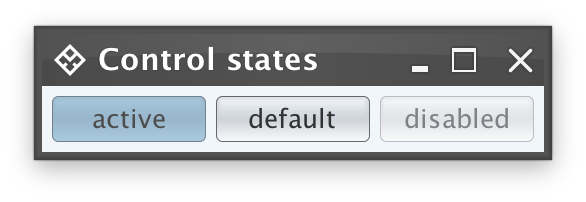
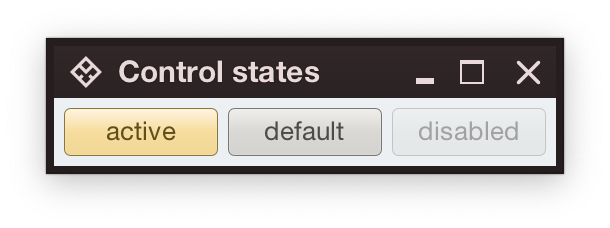
Updated color scheme bundle documentation
For #400

diff --git a/demos/theming-demo/src/main/java/org/pushingpixels/radiance/demo/theming/main/ControlStates.java b/demos/theming-demo/src/main/java/org/pushingpixels/radiance/demo/theming/main/ControlStates.java
@@ -31,7 +31,7 @@ package org.pushingpixels.radiance.demo.theming.main;
 
 import org.pushingpixels.radiance.theming.api.RadianceThemingCortex;
 import org.pushingpixels.radiance.theming.api.RadianceThemingSlices;
-import org.pushingpixels.radiance.theming.api.skin.BusinessBlackSteelSkin;
+import org.pushingpixels.radiance.theming.api.skin.MarinerSkin;
 
 import javax.swing.*;
 import java.awt.*;
@@ -62,7 +62,7 @@ public class ControlStates extends JFrame {
         SwingUtilities.invokeLater(() -> {
             JFrame.setDefaultLookAndFeelDecorated(true);
             RadianceThemingCortex.GlobalScope.setFocusKind(RadianceThemingSlices.FocusKind.NONE);
-            RadianceThemingCortex.GlobalScope.setSkin(new BusinessBlackSteelSkin());
+            RadianceThemingCortex.GlobalScope.setSkin(new MarinerSkin());
             new ControlStates().setVisible(true);
         });
     }

diff --git a/theming/src/main/java/org/pushingpixels/radiance/theming/api/RadianceColorSchemeBundle.java b/theming/src/main/java/org/pushingpixels/radiance/theming/api/RadianceColorSchemeBundle.java
@@ -70,6 +70,18 @@ public class RadianceColorSchemeBundle {
 
     private Map<RadianceThemingSlices.ContainerColorTokensAssociationKind, ContainerColorTokens> colorTokensForEnabledState;
 
+    /**
+     * Creates a new color scheme bundle.
+     *
+     * @param activeContainerTokens
+     *            The active color tokens of this bundle.
+     * @param mutedContainerTokens
+     *            The muted color tokens of this bundle.
+     * @param neutralContainerTokens
+     *            The neutral color tokens of this bundle.
+     * @param isSystemDark
+     *            <code>true</code> if the system tokens should be created in dark mode.
+     */
     public RadianceColorSchemeBundle(ContainerColorTokens activeContainerTokens,
         ContainerColorTokens mutedContainerTokens, ContainerColorTokens neutralContainerTokens,
         boolean isSystemDark) {

diff --git a/docs/theming/skins/colorschemebundles.md b/docs/theming/skins/colorschemebundles.md
@@ -4,57 +4,60 @@ A **color scheme bundle** is a set of information that allows painting controls 
 
 ### Basics
 
-The `ComponentState` is the base class for core and custom [component states](componentstates.md). A color scheme bundle is created with three major color schemes - for active, enabled and disabled controls. If no state-specific color schemes are registered on the color scheme bundle, the major color schemes are used for all component states. A color scheme bundle is created with the following constructor:
+The `ComponentState` is the base class for core and custom [component states](componentstates.md). A color scheme bundle is created with three major color tokens - for active, muted and neutral containers. If no state-specific color tokens are registered on the color scheme bundle, the major color tokens are used for all component states. A color scheme bundle is created with the following constructor:
 
 ```java
-  /**
-   * Creates a new color scheme bundle.
-   *
-   * @param activeColorScheme
-   *            The active color scheme of this bundle.
-   * @param enabledColorScheme
-   *            The enabled color scheme of this bundle.
-   * @param disabledColorScheme
-   *            The disabled color scheme of this bundle.
-   */
-  public RadianceColorSchemeBundle(RadianceColorScheme activeColorScheme,
-      RadianceColorScheme enabledColorScheme,
-      RadianceColorScheme disabledColorScheme)
+/**
+ * Creates a new color scheme bundle.
+ *
+ * @param activeContainerTokens
+ *            The active color tokens of this bundle.
+ * @param mutedContainerTokens
+ *            The muted color tokens of this bundle.
+ * @param neutralContainerTokens
+ *            The neutral color tokens of this bundle.
+ * @param isSystemDark
+ *            <code>true</code> if the system tokens should be created in dark mode.
+ */
+public RadianceColorSchemeBundle(ContainerColorTokens activeContainerTokens,
+    ContainerColorTokens mutedContainerTokens, ContainerColorTokens neutralContainerTokens,
+    boolean isSystemDark)
 ```
 
-Here is a screenshot of three buttons (active, enabled and disabled) under the core [Business Black Steel skin](light-skins.md#business-black-steel):
+Here is a screenshot of three buttons (active, enabled and disabled) under the core [Mariner skin](light-skins.md#mariner):
 
-<img src="https://raw.githubusercontent.com/kirill-grouchnikov/radiance/sunshine/docs/images/theming/states/control-states.png" width="293" height="101" />
+<img src="https://raw.githubusercontent.com/kirill-grouchnikov/radiance/sunshine/docs/images/theming/states/control-states.png" width="305" height="114" />
 
 Here is the relevant code snippet from the definition of this skin:
 
 ```java
-RadianceSkin.ColorSchemes businessSchemes = RadianceSkin
-    .getColorSchemes("org/pushingpixels/radiance/theming/api/skin/business.colorschemes");
-
-RadianceColorScheme activeScheme = businessSchemes.get("Business Black Steel Active");
-RadianceColorScheme enabledScheme = businessSchemes.get("Business Black Steel Enabled");
-RadianceColorScheme disabledScheme = businessSchemes.get("Business Black Steel Disabled");
-
-// the default color scheme bundle
-RadianceColorSchemeBundle defaultSchemeBundle = new RadianceColorSchemeBundle(
-    activeScheme, enabledScheme, disabledScheme);
+RadianceColorSchemeBundle marinerDefaultBundle = new RadianceColorSchemeBundle(
+    /* activeContainerTokens */ ColorSchemeUtils.getContainerTokens(
+        /* seed */ Hct.fromInt(0xFFF6DD9D),
+        /* containerConfiguration */ ContainerConfiguration.defaultLight()),
+    /* mutedContainerTokens */ ColorSchemeUtils.getContainerTokens(
+        /* seed */ Hct.fromInt(0xFFD9D8D5),
+        /* containerConfiguration */ ContainerConfiguration.defaultLight()),
+    /* neutralContainerTokens */ ColorSchemeUtils.getContainerTokens(
+        /* seed */ Hct.fromInt(0xFFECF0F3),
+        /* containerConfiguration */ ContainerConfiguration.defaultLight()),
+    /* isSystemDark */ false);
 ```
 
 ### More states
 
-The following API allows specifying a custom color scheme for a specific component state:
+The following API allows specifying custom color tokens for a specific component state:
 
 ```java
   /**
-   * Registers a color scheme for the specific component state.
+   * Registers container color tokens for the specific active component states.
    *
-   * @param stateColorScheme
-   *     Color scheme for the specified component state.
+   * @param stateContainerTokens
+   *     Container color tokens for the specified active component states.
    * @param states
    *     Component states.
    */
-  public void registerColorScheme(RadianceColorScheme stateColorScheme,
+  public void registerActiveContainerTokens(ContainerColorTokens stateContainerTokens,
       ComponentState... states)
 ```      
 
@@ -65,168 +68,74 @@ For example, you can use this API if you want to visualy distinguish between but
 Here is the relevant code snippet:
 
 ```java
-    defaultSchemeBundle.registerColorScheme(rolloverScheme,
-        ComponentState.ROLLOVER_UNSELECTED);
-    defaultSchemeBundle.registerColorScheme(rolloverSelectedScheme,
-        ComponentState.ROLLOVER_SELECTED);
-    defaultSchemeBundle.registerColorScheme(selectedScheme,
-        ComponentState.SELECTED);
-    defaultSchemeBundle.registerColorScheme(pressedScheme,
-        ComponentState.PRESSED_UNSELECTED);
-    defaultSchemeBundle.registerColorScheme(pressedSelectedScheme,
-        ComponentState.PRESSED_SELECTED);
+officeSilverDefaultBundle.registerActiveContainerTokens(rolloverContainerTokens,
+    ComponentState.ROLLOVER_UNSELECTED);
+officeSilverDefaultBundle.registerActiveContainerTokens(rolloverSelectedContainerTokens,
+    ComponentState.ROLLOVER_SELECTED);
+officeSilverDefaultBundle.registerActiveContainerTokens(selectedContainerTokens,
+    ComponentState.SELECTED);
+officeSilverDefaultBundle.registerActiveContainerTokens(pressedContainerTokens,
+    ComponentState.PRESSED_UNSELECTED);
+officeSilverDefaultBundle.registerActiveContainerTokens(pressedSelectedContainerTokens,
+    ComponentState.PRESSED_SELECTED);
 ```
 
-It is possible to specify a custom alpha value for controls in some states. This can be useful if you want to use the same color scheme for both enabled and disabled states, and have disabled controls painted with a custom alpha translucency (making them blend with the background). Use the following API:
+Controls in disabled states are drawn using the following alpha tokens:
 
-```java
-/**
- * Registers an alpha channel value for the specific component states.
- *
- * @param alpha  Alpha channel value.
- * @param states Component states.
- */
-public void registerAlpha(float alpha, ComponentState... states)
-```      
-Here is sample code from the [Autumn skin](light-skins.md#autumn) that uses the same color scheme for enabled and disabled states, setting alpha channel to 60% for the disabled states:
-
-```java
-RadianceSkin.ColorSchemes schemes = RadianceSkin
-    .getColorSchemes("org/pushingpixels/radiance/theming/api/skin/autumn.colorschemes");
-
-RadianceColorScheme activeScheme = schemes.get("Autumn Active");
-RadianceColorScheme enabledScheme = schemes.get("Autumn Enabled");
-RadianceColorScheme disabledScheme = enabledScheme;
-
-RadianceColorSchemeBundle defaultSchemeBundle = new RadianceColorSchemeBundle(
-    activeScheme, enabledScheme, disabledScheme);
-defaultSchemeBundle.registerAlpha(0.6f, ComponentState.DISABLED_UNSELECTED, ComponentState.DISABLED_SELECTED);
-defaultSchemeBundle.registerColorScheme(disabledScheme, ComponentState.DISABLED_UNSELECTED);
-defaultSchemeBundle.registerColorScheme(activeScheme, ComponentState.DISABLED_SELECTED);
-```
+* `containerSurfaceDisabledAlpha`
+* `containerOutlineDisabledAlpha`
+* `onContainerDisabledAlpha`
 
 ### Highlights
 
-The [highlight painters](../painters/highlight.md) are used to paint highlight areas on such components as lists, tables, table headers, trees and menus. Use the following APIs to specify custom highlight color schemes for specific component states, along with custom alpha values:
-
-```java
-  /**
-   * Registers a highlight color scheme for the specific component state if
-   * the component state is not <code>null</code>, or a global highlight color
-   * scheme otherwise.
-   *
-   * @param stateHighlightScheme
-   *     Highlight color scheme for the specified component state.
-   * @param states
-   *     Component states. If <code>null</code>, the specified color scheme
-   *     will be applied for all states left unspecified.
-   */
-  public void registerHighlightColorScheme(
-      RadianceColorScheme stateHighlightScheme, ComponentState... states)
-
-  /**
-   * Registers a highlight alpha channel value for the specific component states.
-   *
-   * @param alpha  Highlight alpha channel value.
-   * @param states Component states.
-   */
-  public void registerHighlightAlpha(float alpha, ComponentState... states)
-```
-
-Here is an example of using these APIs to set state-specific alpha values for highlights in the [Business Black Steel skin](light-skins.md#business-black-steel):
-
-```java
-RadianceColorSchemeBundle defaultSchemeBundle = new RadianceColorSchemeBundle(
-    activeScheme, enabledScheme, disabledScheme);
-defaultSchemeBundle.registerHighlightAlpha(0.6f, ComponentState.ROLLOVER_UNSELECTED);
-defaultSchemeBundle.registerHighlightAlpha(0.8f, ComponentState.SELECTED);
-defaultSchemeBundle.registerHighlightAlpha(0.95f, ComponentState.ROLLOVER_SELECTED);
-defaultSchemeBundle.registerHighlightAlpha(0.8f, ComponentState.ARMED, ComponentState.ROLLOVER_ARMED);
-defaultSchemeBundle.registerHighlightColorScheme(activeScheme, ComponentState.ROLLOVER_UNSELECTED,
-    ComponentState.SELECTED, ComponentState.ROLLOVER_SELECTED,
-    ComponentState.ARMED, ComponentState.ROLLOVER_ARMED);
-```        
-
-### Finer grained control
-
-As described in the [color tokens association kind documentation](colortokensassociationkinds.md), Swing controls have different visual areas. Even such a simple example as `JCheckBox` icon has three different visual areas: inner fill, border and the "V" mark:
-
-<img src="https://raw.githubusercontent.com/kirill-grouchnikov/radiance/sunshine/docs/images/theming/color-scheme-association-kinds.png" width="96" height="96"/>
-
-Use the following API to specify custom color schemes to be used for specific visual areas under specific component states:
-
-```java
-  /**
-   * Registers the color scheme to be used for the specified visual area of
-   * controls under the specified states. For example, if the light orange
-   * scheme has to be used for gradient fill of rollover selected and rollover
-   * controls, the parameters would be:
-   *
-   * <ul>
-   * <li><code>scheme</code>=light orange scheme</li>
-   * <li>
-   * <code>associationKind</code>={@link ColorSchemeAssociationKind#FILL}</li>
-   * <li>
-   * <code>states</code>={@link ComponentState#ROLLOVER_SELECTED}, {@link ComponentState#ROLLOVER_UNSELECTED}
-   * </li>
-   * </ul>
-   *
-   * @param scheme
-   *            Color scheme.
-   * @param associationKind
-   *            Color scheme association kind that specifies the visual areas
-   *            of controls to be painted with this color scheme.
-   * @param states
-   *            Component states that further restrict the usage of the
-   *            specified color scheme.
-   */
-  public void registerColorScheme(RadianceColorScheme scheme,
-      ColorSchemeAssociationKind associationKind,
-      ComponentState... states)
-```
-
-Here is an example of using this API in the [Office Silver 2007 skin](light-skins.md#office-silver-2007) skin to specify a custom color scheme to be used on borders of controls in the `ComponentState.SELECTED` state:
-
-```java
-    defaultSchemeBundle.registerColorScheme(borderSelectedScheme,
-        ColorSchemeAssociationKind.BORDER, ComponentState.SELECTED);
-```
-
-### Derived bundles
-
-As with color schemes, it is possible to create a derived color scheme bundle. The same warning applies - a color scheme bundle is a delicate collection of different color schemes and alpha values carefully chosen to work together in providing visually appealing appearance and consistent animation sequences. In some cases, creating a derived color scheme bundle will result in poor visuals.
-
-You can use the following API to create a derived color scheme bundle:
-
-```java
-  /**
-   * Creates a new color scheme bundle that has the same settings as this
-   * color scheme bundle with the addition of applying the specified color
-   * scheme transformation on all the relevant color schemes
-   *
-   * @param transform
-   *     Color scheme transformation.
-   * @return The new color scheme bundle.
-   */
-  public RadianceColorSchemeBundle transform(ColorSchemeTransform transform)
-```
-
-Where the color scheme transformation is defined by the following interface:
+The [highlight painters](../painters/highlight.md) are used to paint highlight areas on such components as lists, tables, table headers, trees and menus. Use the following API to specify custom highlight color tokens for specific component states:
 
 ```java
 /**
- * Defines transformation on a color scheme.
+ * Registers the container color tokens to be used for controls in specified active states.
+ * For example, if light orange color tokens are to be used for rollover selected and rollover
+ * controls in highlights, the parameters would be:
  *
- * @author Kirill Grouchnikov
+ * <ul>
+ * <li><code>stateContainerTokens</code>=light orange color tokens</li>
+ * <li><code>associationKind</code>={@link RadianceThemingSlices.ContainerColorTokensAssociationKind#HIGHLIGHT}</li>
+ * <li><code>states</code>={@link ComponentState#ROLLOVER_SELECTED}, {@link ComponentState#ROLLOVER_UNSELECTED}</li>
+ * </ul>
+ *
+ * @param stateContainerTokens Container color tokens for the specified active component states.
+ * @param associationKind Color scheme association kind that specifies the visual areas
+ *                        of controls to be painted with this color tokens.
+ * @param activeStates    Component states that further restrict the usage of the
+ *                        specified color tokens.
  */
-public interface ColorSchemeTransform {
-  /**
-   * Transforms the specified color scheme.
-   *
-   * @param scheme
-   *            The original color scheme to transform.
-   * @return The transformed color scheme.
-   */
-  public RadianceColorScheme transform(RadianceColorScheme scheme);
-}
-```     
+public void registerActiveContainerTokens(ContainerColorTokens stateContainerTokens,
+    RadianceThemingSlices.ContainerColorTokensAssociationKind associationKind,
+    ComponentState... activeStates)
+```
+
+Here is an example of using these APIs to set custom highlight color tokens in the [Mariner skin](light-skins.md#mariner):
+
+```java
+marinerDefaultBundle.registerActiveContainerTokens(
+    marinerSelectedHighlightContainerTokens,
+    RadianceThemingSlices.ContainerColorTokensAssociationKind.HIGHLIGHT,
+    ComponentState.SELECTED);
+```        
+
+This API can also be used for configuring custom color tokens for other association kinds, like the `MARK` in the [Magellan skin](dark-skins.md#magellan):
+
+```java
+magellanDefaultBundle.registerActiveContainerTokens(magellanGreenContainerTokens,
+    RadianceThemingSlices.ContainerColorTokensAssociationKind.MARK,
+    ComponentState.SELECTED);
+magellanDefaultBundle.registerActiveContainerTokens(magellanGreenRolloverContainerTokens,
+    RadianceThemingSlices.ContainerColorTokensAssociationKind.MARK,
+    ComponentState.ROLLOVER_SELECTED,
+    ComponentState.ROLLOVER_UNSELECTED,
+    ComponentState.ARMED,
+    ComponentState.ROLLOVER_ARMED);
+magellanDefaultBundle.registerActiveContainerTokens(magellanPressedContainerTokens,
+    RadianceThemingSlices.ContainerColorTokensAssociationKind.MARK,
+    ComponentState.PRESSED_UNSELECTED,
+    ComponentState.PRESSED_SELECTED);
+```
